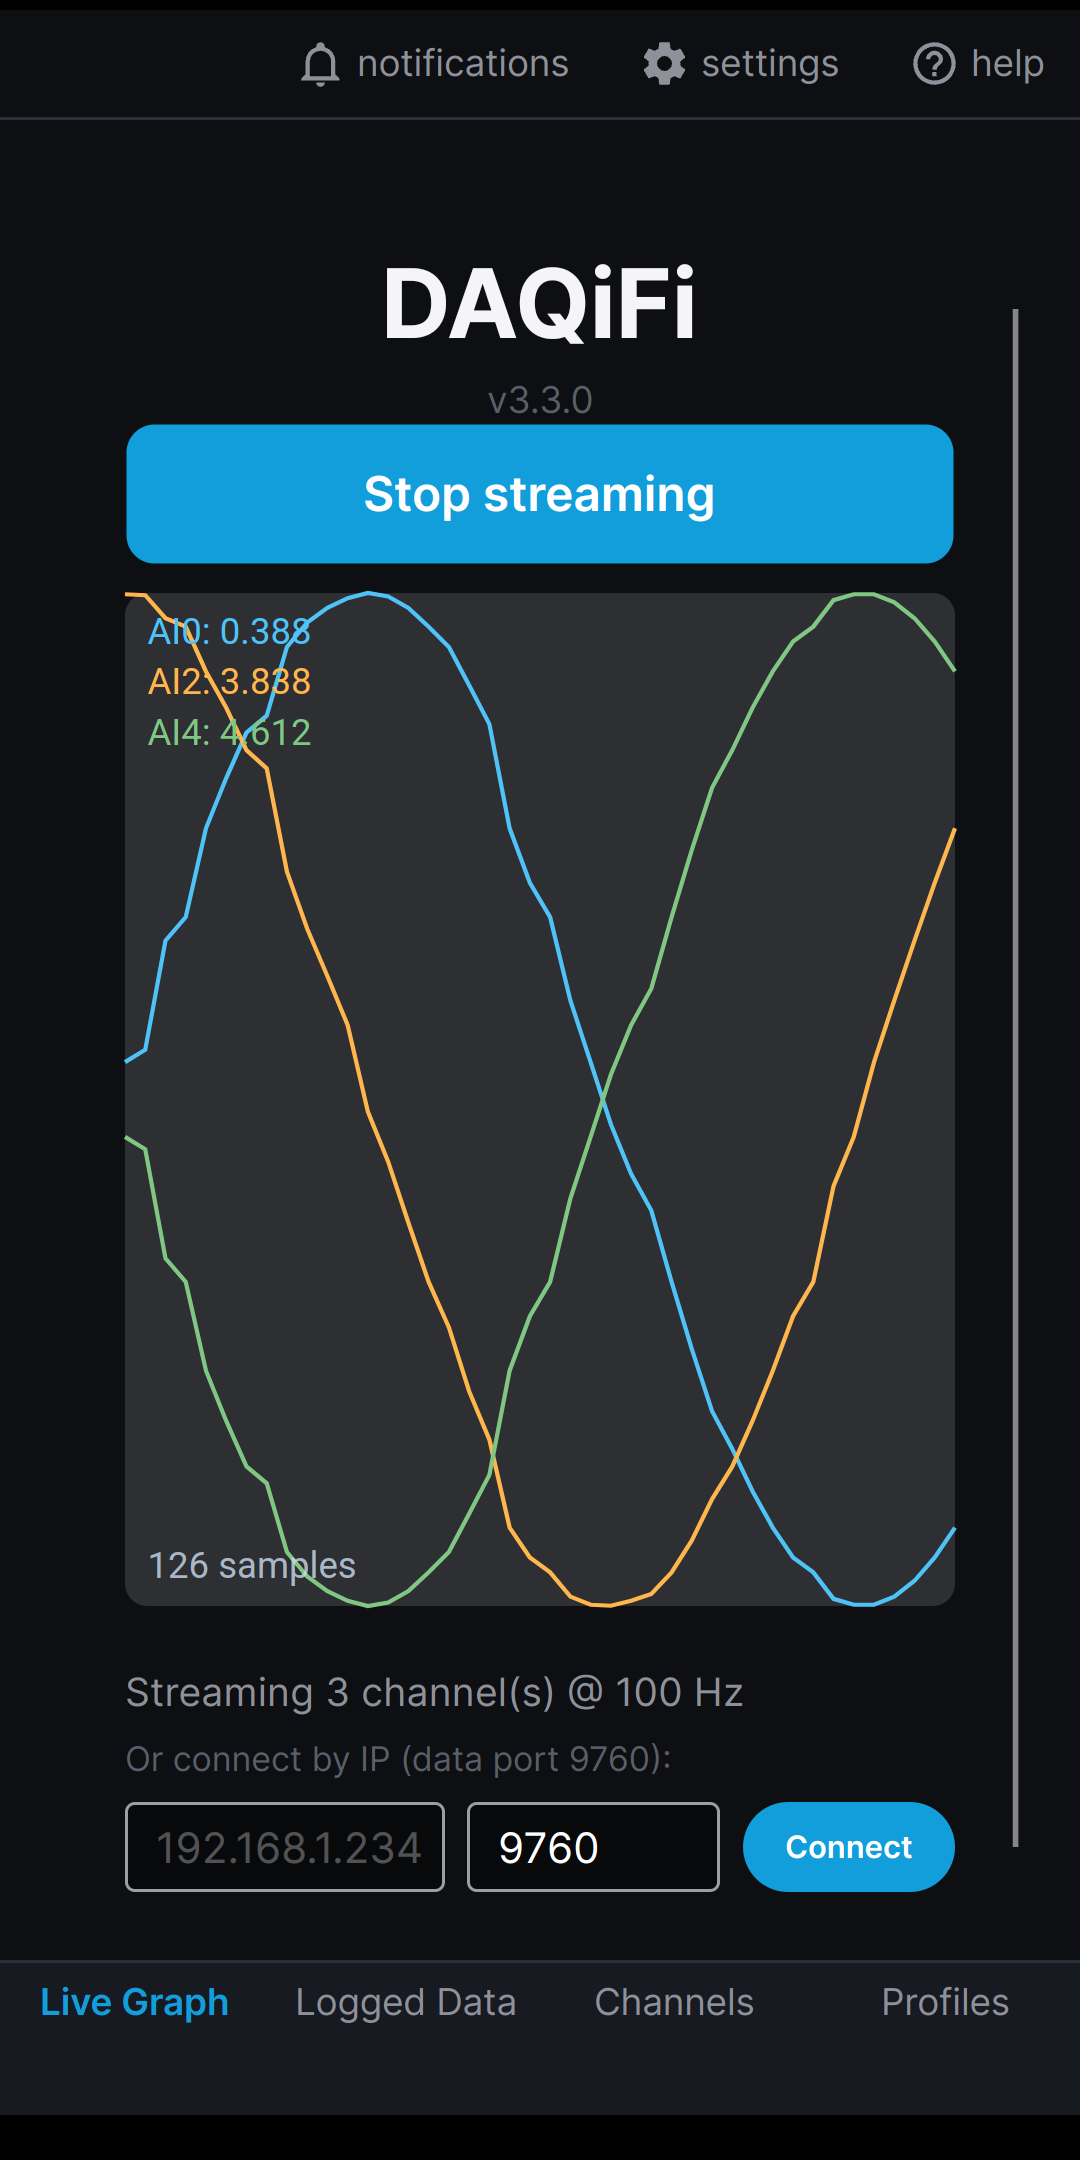
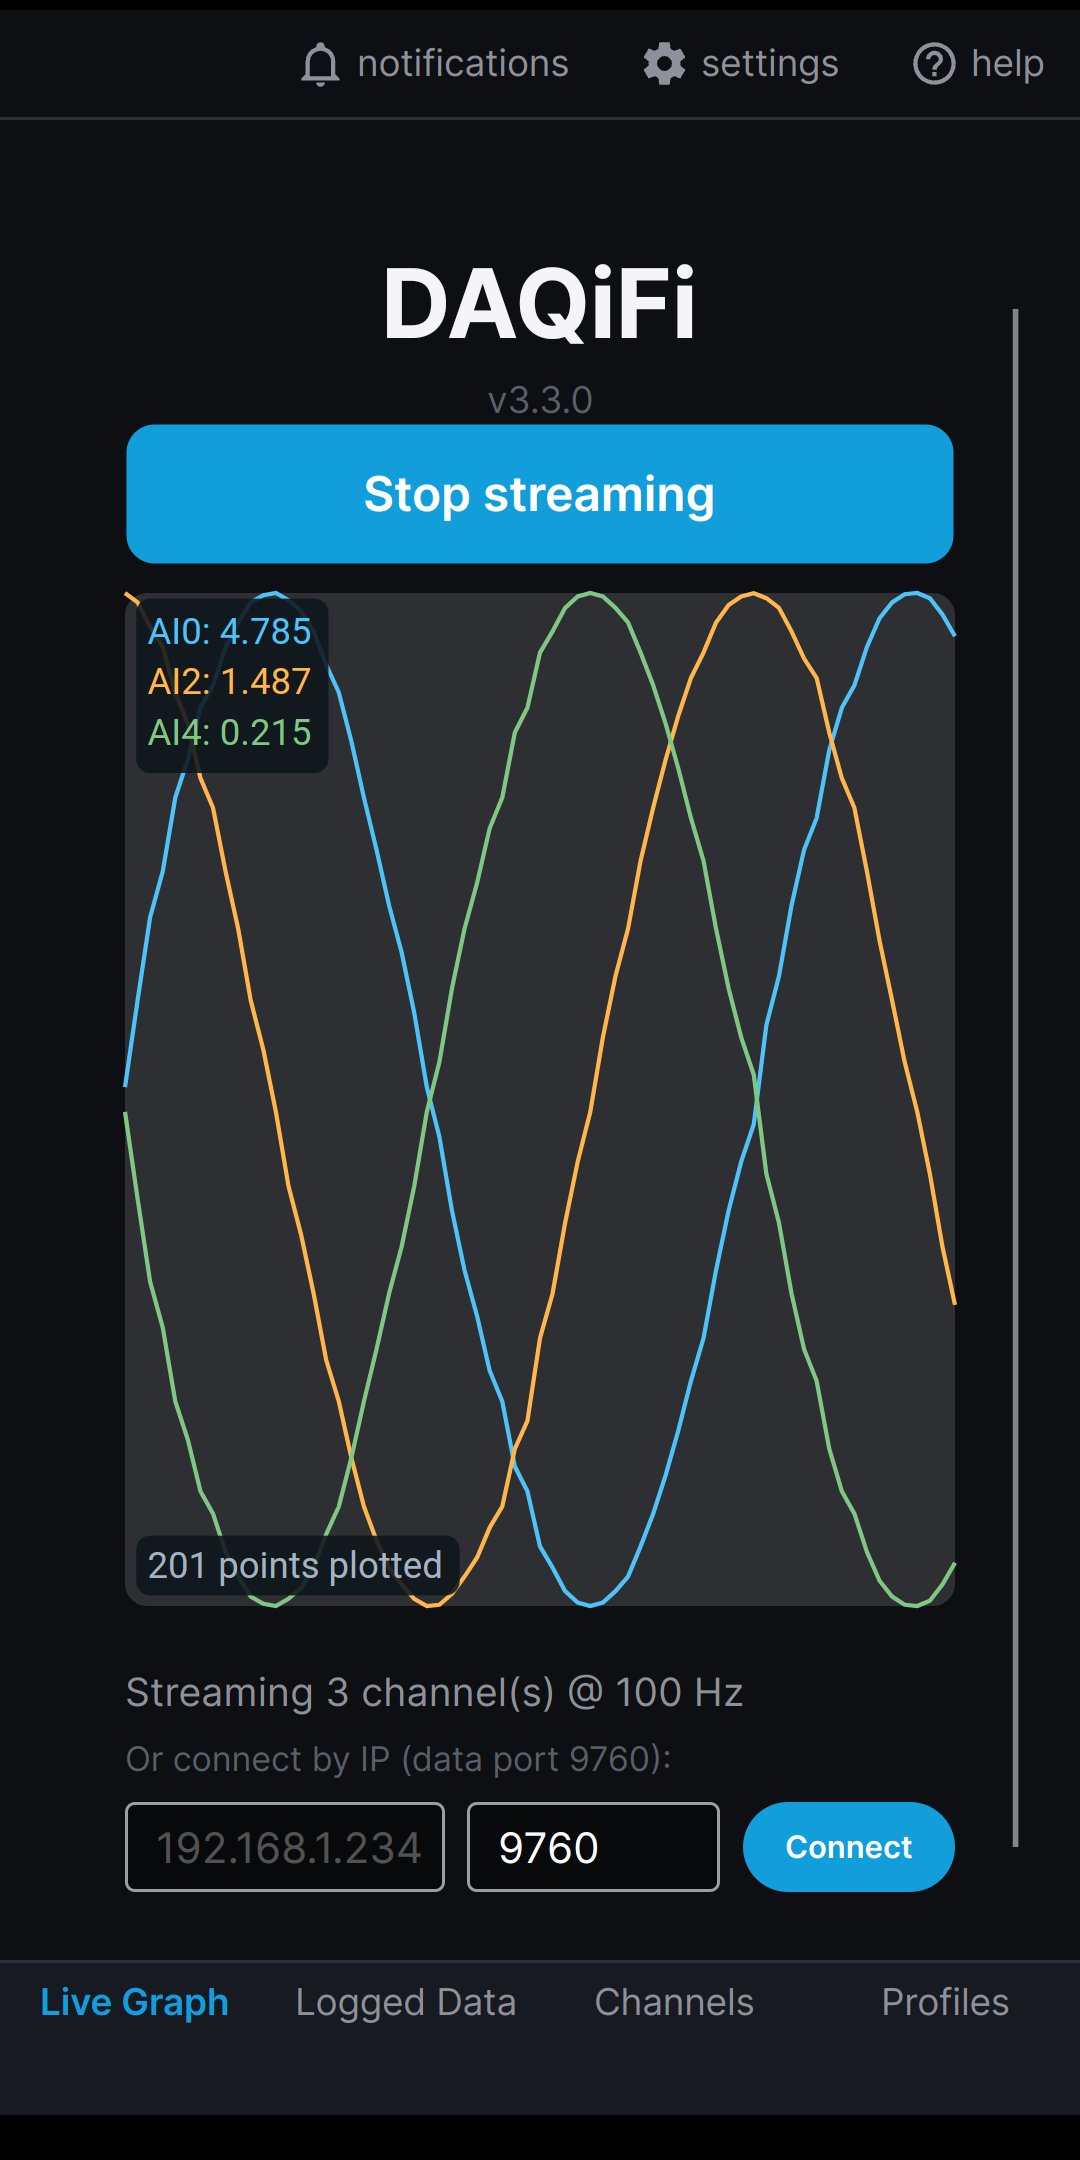
docs(store): regenerate the screenshots after the "points plotted" relabel
The committed set showed "N samples", which the app no longer says (#120,
merged in e84df14). A store listing whose screenshots disagree with the
running app is the kind of small wrongness a reviewer notices and a user
trusts less.

The hero shot is also simply better than what it replaces: three
phase-staggered sines at a low enough sample depth to show three clean
cycles, rather than the ten crammed ones the earlier capture had. It also
exercises the plate-width clamp from #121 — the plate now hugs "201
points plotted" instead of running to a guessed width.

Screens 03 and 04 are byte-identical to the previous set. That is
expected, not a failed capture: the 90px crop removes the status bar with
its clock, and neither the channel picker nor the scan result has other
time-varying content.

All four remain 1080x2160 — Play's 2:1 cap, and 1080 on the short side
for promotion eligibility.

diff --git a/store/listing-copy.md b/store/listing-copy.md
@@ -122,6 +122,11 @@ generator on the inputs would be. Nothing about the UI is mocked.
 Set the pattern back to `0` when finished; a bench device left in test mode returns synthetic data
 to whoever picks it up next.
 
+**Regenerated after the "samples" → "points plotted" relabel (#120).** The readout in the plot is a
+count of points drawn, not samples acquired — the plot decimates the stream to 20 Hz — so the old
+screenshots showed a label the app no longer uses. Screens 03 and 04 are byte-identical to the
+previous set: the crop removes the status bar, and neither screen has other time-varying content.
+
 ---
 
 ## Notes for whoever pastes this
